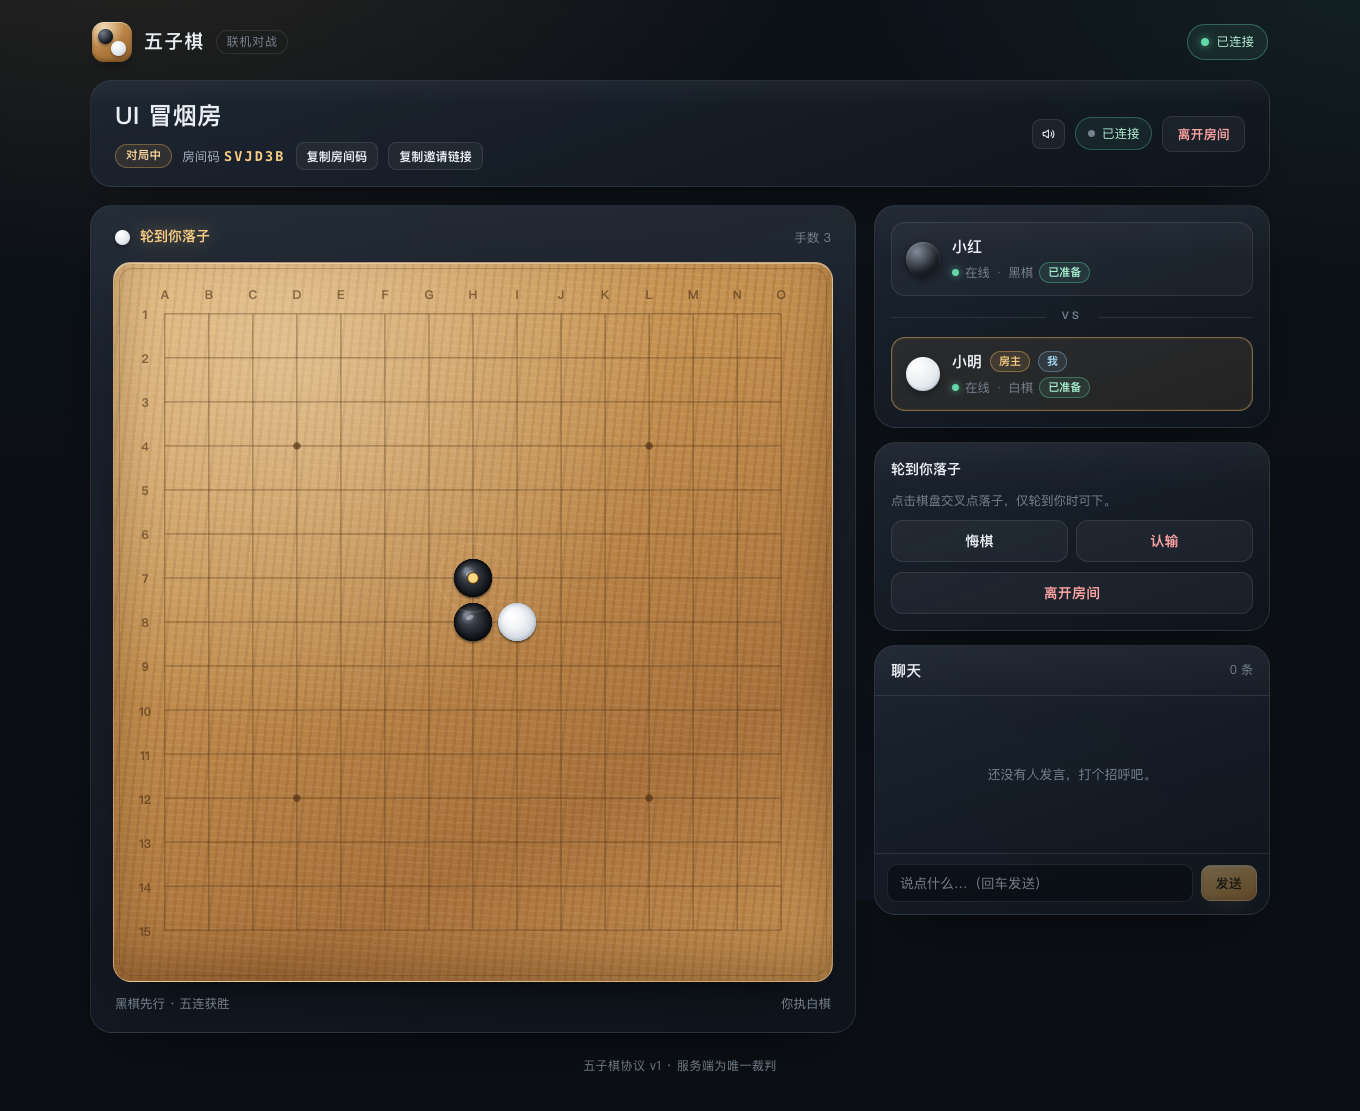
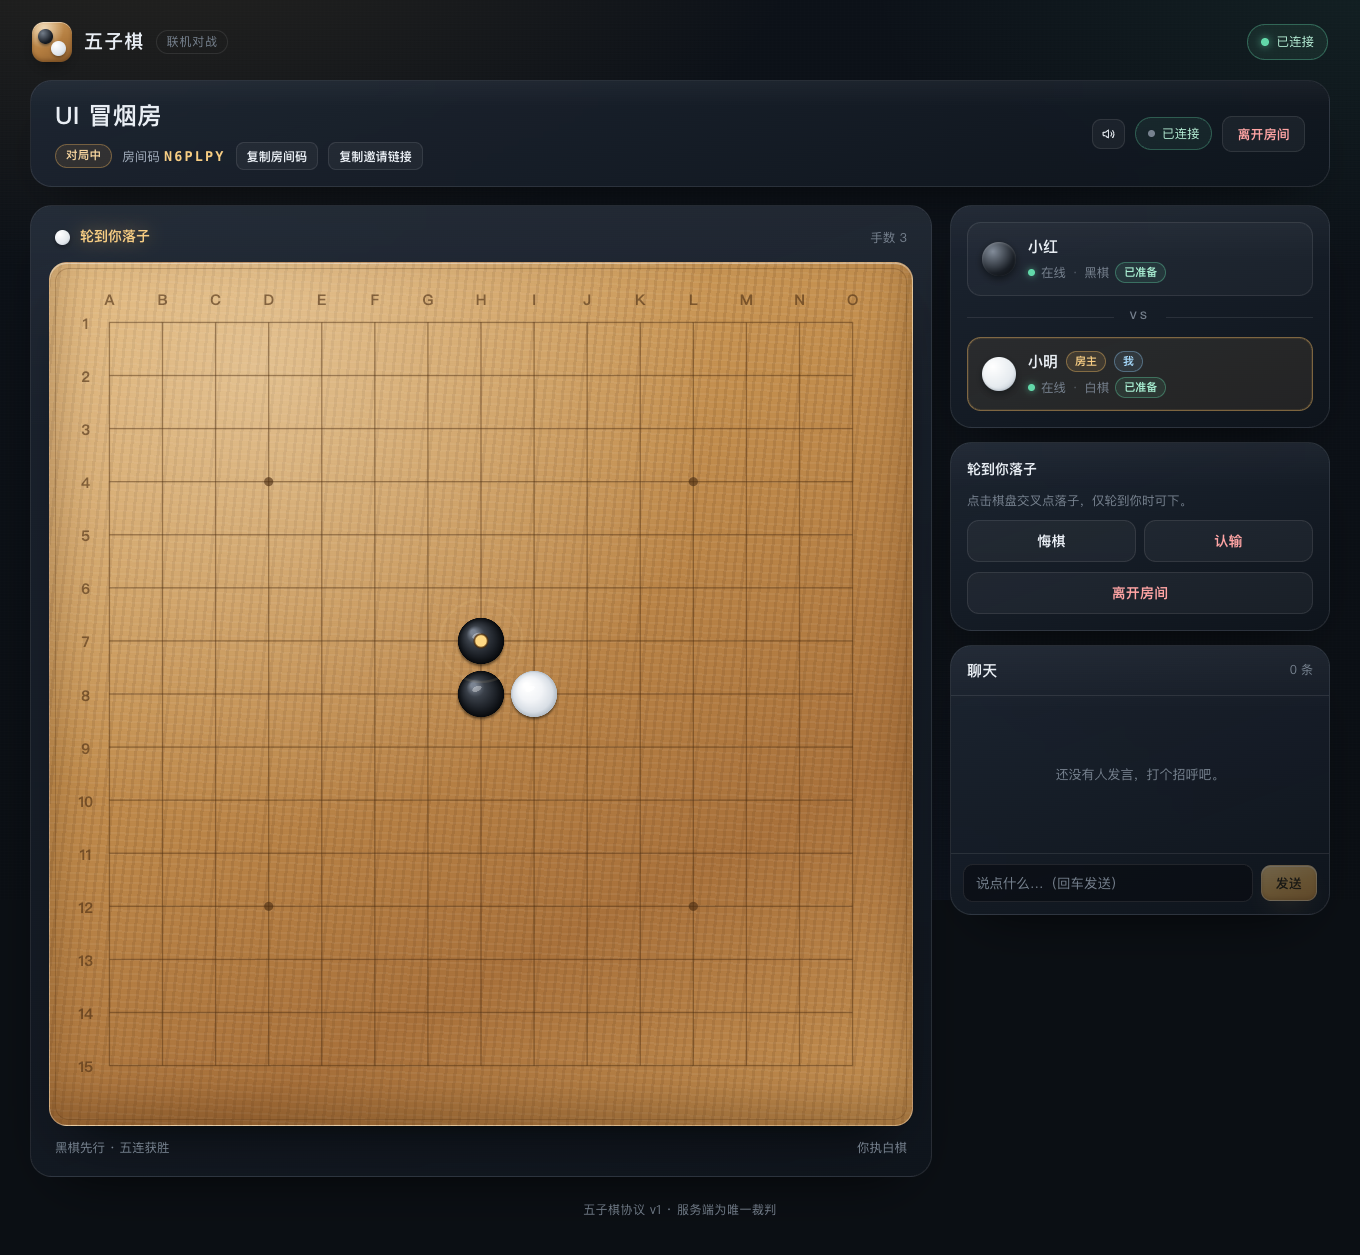
style: 宽屏下放大棋盘并修正移动端布局
- 对局页容器扩展到 1440px，棋盘上限 720 → 900px（1582 宽屏实测画布 700 → 880px）
- 侧栏改为 300–380px，房间/聊天仍保持可用宽度；大厅仍限制 1240px 保持构图
- 宽屏网格规则放进 min-width:981px，避免覆盖移动端单列布局
- 更新对局/终局/移动端截图

diff --git a/web/src/styles.css b/web/src/styles.css
@@ -2735,3 +2735,46 @@ button {
   white-space: nowrap;
   border: 0;
 }
+
+/* ---------- 宽屏对局页：让棋盘更大（大厅保持 1240 宽） ---------- */
+.app-shell {
+  max-width: 1440px;
+}
+
+.lobby {
+  width: 100%;
+  max-width: 1240px;
+  margin: 0 auto;
+}
+
+.room-view {
+  width: 100%;
+  max-width: 1400px;
+  margin: 0 auto;
+}
+
+@media (min-width: 981px) {
+  .room-grid {
+    grid-template-columns: minmax(0, 1fr) minmax(300px, 380px);
+  }
+
+  .board-stage {
+    max-width: 900px;
+  }
+}
+
+@media (max-width: 980px) {
+  .board-stage {
+    max-width: 820px;
+  }
+}
+
+@media (max-width: 640px) {
+  .board-stage {
+    max-width: none;
+  }
+
+  .room-view {
+    max-width: none;
+  }
+}
